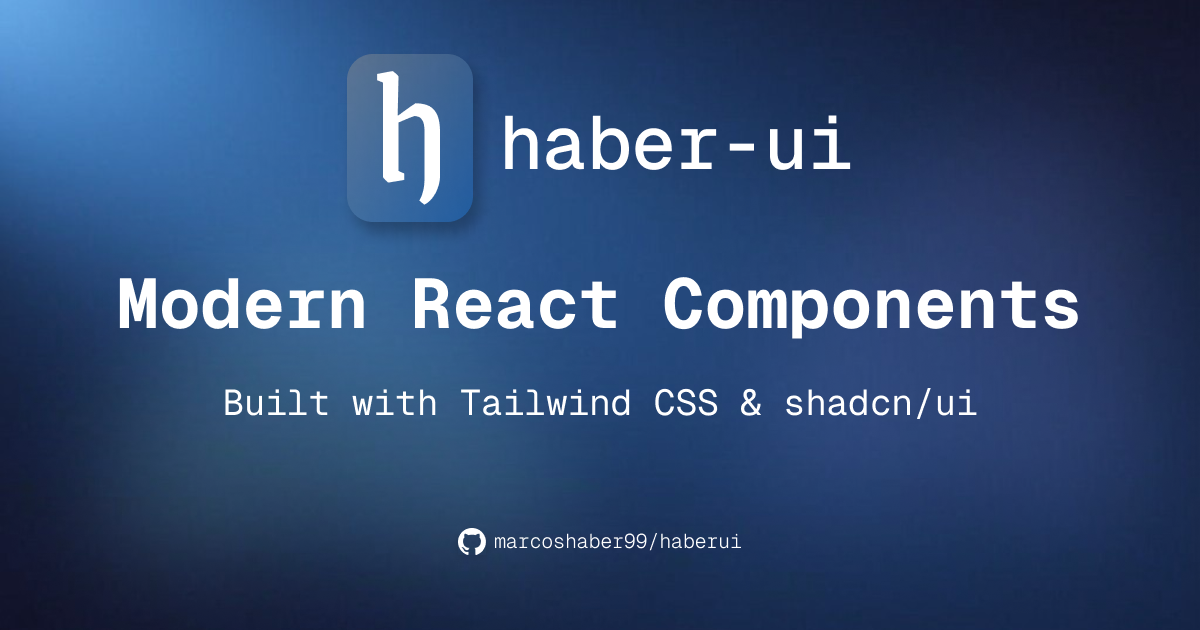
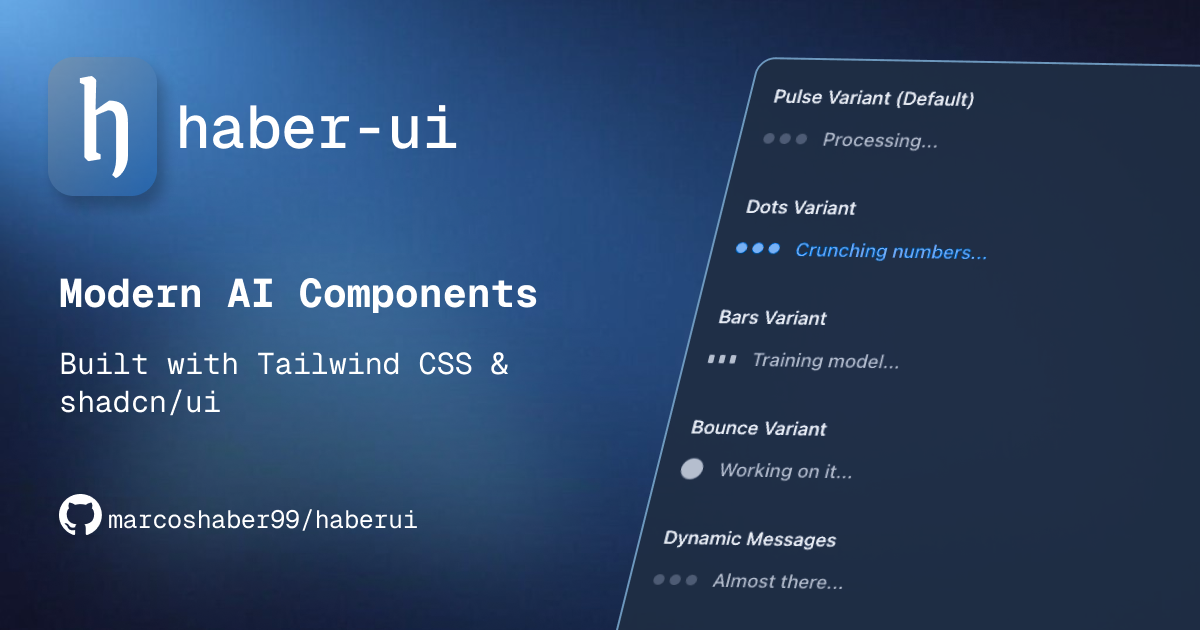
feat: update homepage design and add installation example

Changed region(s): [[0.0308, 0.0603, 1.0, 0.9349], [0.0308, 0.7841, 0.3392, 0.8444]]

diff --git a/components/home/hero.tsx b/components/home/hero.tsx
@@ -1,33 +1,31 @@
 import Link from "next/link";
 import { Github } from "lucide-react";
 import { Button } from "@/components/ui/button";
-import { InstallationExample } from "./installation-example";
 
 export function Hero() {
   return (
-    <section className="w-full flex flex-col items-center px-4 py-16 sm:py-24 md:py-32">
+    <section className="w-full flex flex-col items-center px-4 py-16">
       <Link
-        href="/docs/components/ai-sentiment-analyzer"
-        className="mb-8 rounded-full bg-green-600/70 text-white px-4 py-2 text-xs sm:px-6 sm:py-2.5 sm:text-sm hover:bg-green-600/80 transition-colors"
+        href="/docs/components/thinking-state"
+        className="mb-8 rounded-full bg-slate-600/70 text-white px-4 py-2 text-xs sm:text-sm hover:bg-slate-600/80 transition-colors"
       >
         Check out our newest component!
       </Link>
       <div className="relative flex flex-col items-center gap-4 text-center max-w-[800px]">
         <div className="space-y-6">
-          <h1 className="text-4xl sm:text-5xl md:text-6xl lg:text-7xl font-serif font-medium tracking-tight">
-            Start building
+          <h1 className="text-4xl sm:text-6xl lg:text-7xl font-serif font-medium tracking-tight">
+            React Components
             <br />
-            your app now
+            for AI Apps
           </h1>
           <p className="mx-auto max-w-[600px] text-base sm:text-lg md:text-xl text-muted-foreground/80">
-            An open source component library optimized for fast development,
-            easy maintenance, and accessibility. Just import and go—no
-            configuration required.
+            A collection of React components designed for building AI
+            applications.
           </p>
         </div>
         <div className="mt-8 flex flex-col sm:flex-row gap-4 sm:gap-6">
           <Link href="/docs">
-            <Button size="lg" className="rounded-full w-full sm:w-auto">
+            <Button className="rounded-full w-full sm:w-auto">
               Get started →
             </Button>
           </Link>
@@ -42,7 +40,6 @@ export function Hero() {
           </a>
         </div>
       </div>
-      <InstallationExample />
     </section>
   );
 }

diff --git a/app/page.tsx b/app/page.tsx
@@ -1,6 +1,7 @@
 import { Nav } from "@/components/home/nav";
 import { Hero } from "@/components/home/hero";
 import { Footer } from "@/components/home/footer";
+import { InstallationExample } from "@/components/home/installation-example";
 
 export default function Home() {
   return (
@@ -11,7 +12,7 @@ export default function Home() {
           className="absolute left-1/2 top-1/2 -translate-x-1/2 -translate-y-1/2 w-[1000px] h-[1000px] rounded-full"
           style={{
             background:
-              "radial-gradient(circle, rgba(16,185,129,0.2) 0%, rgba(52,211,153,0.1) 25%, rgba(0,0,0,0) 70%)",
+              "radial-gradient(circle, rgba(56,189,248,0.2) 0%, rgba(96,165,250,0.1) 25%, rgba(0,0,0,0) 70%)",
           }}
         />
       </div>
@@ -22,8 +23,9 @@ export default function Home() {
       {/* Content */}
       <div className="relative flex min-h-screen flex-col">
         <Nav />
-        <main className="flex-1 flex flex-col w-full items-center justify-center">
+        <main className="flex-1 flex flex-col w-full items-center py-32">
           <Hero />
+          <InstallationExample />
         </main>
         <Footer />
       </div>

diff --git a/components/home/installation-example.tsx b/components/home/installation-example.tsx
@@ -33,7 +33,7 @@ export function InstallationExample() {
   }, []);
 
   return (
-    <div className="w-full max-w-2xl mx-auto px-4 py-12 mt-12">
+    <div className="w-full max-w-2xl mx-auto px-4">
       <motion.div
         className="relative"
         initial={{ opacity: 0, y: 10 }}

diff --git a/README.md b/README.md
@@ -4,6 +4,8 @@
 
 # haber-ui
 
+![haber-ui](public/og.png)
+
 Modern React components for modern AI applications. Built with Tailwind CSS and shadcn/ui.
 
 Visit the [documentation](https://www.haberui.com/docs/installation) for more information.
